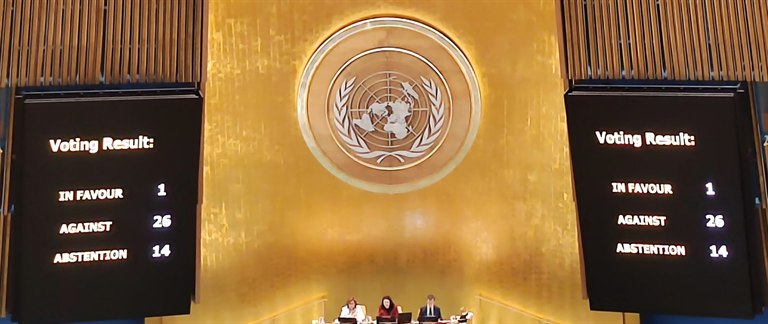
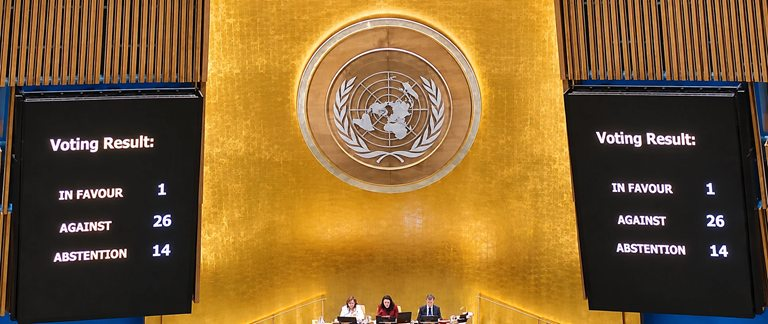
Global Stories header: improved-quality photo
- Same framing, now 1931x814 instead of 1600x675
- Version the image links so returning visitors get the new photo

diff --git a/global-stories.html b/global-stories.html
@@ -51,8 +51,8 @@
 
 					<!-- Header image -->
 					<figure class="story-header">
-						<img width="1600" height="675" src="images/global-stories-header.jpg"
-						     srcset="images/global-stories-header-768.jpg 768w, images/global-stories-header.jpg 1600w"
+						<img width="1931" height="814" src="images/global-stories-header.jpg?v=20261109"
+						     srcset="images/global-stories-header-768.jpg?v=20261109 768w, images/global-stories-header.jpg?v=20261109 1931w"
 						     sizes="(max-width: 736px) 100vw, 1140px"
 						     alt="The United Nations General Assembly Hall during a vote, with the result shown on the screens" />
 						<figcaption class="image-caption">Image: United Nations General Assembly, New York.</figcaption>
